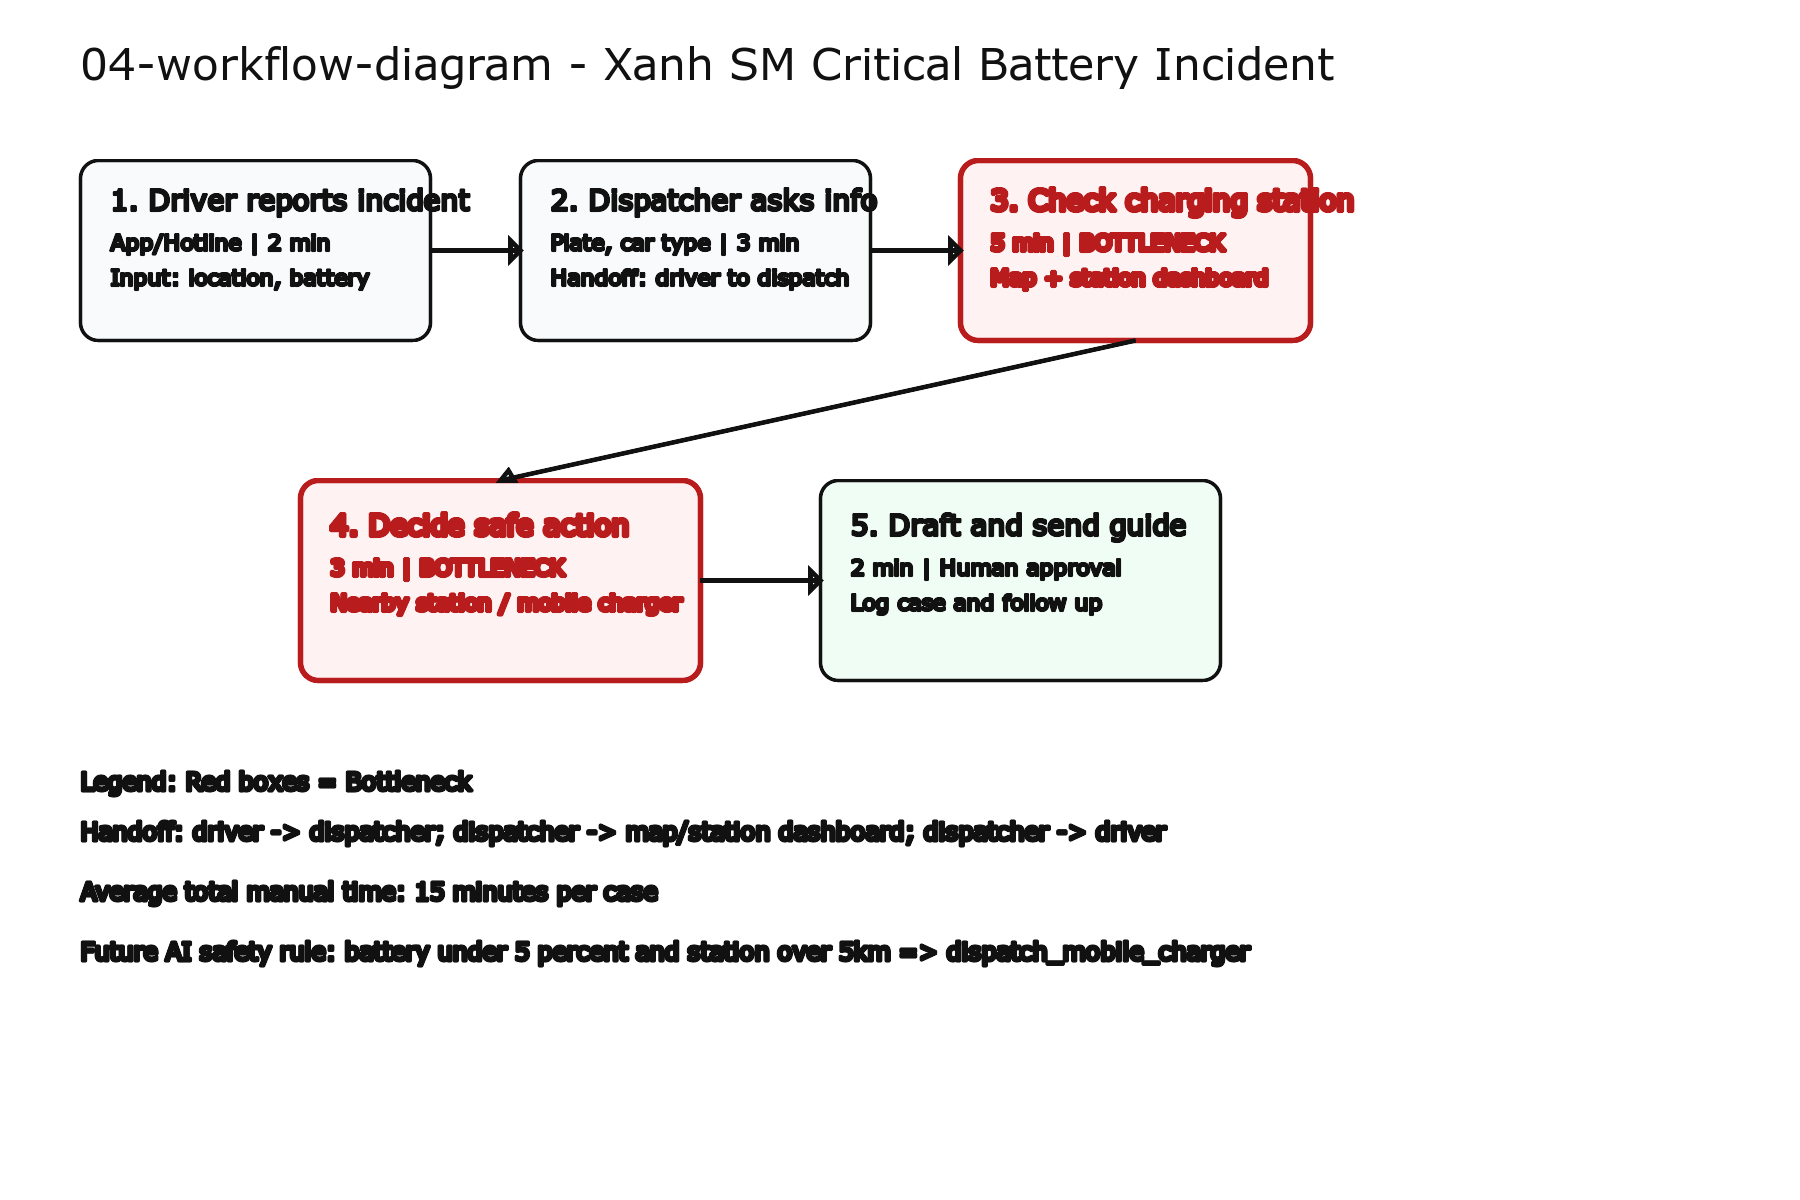
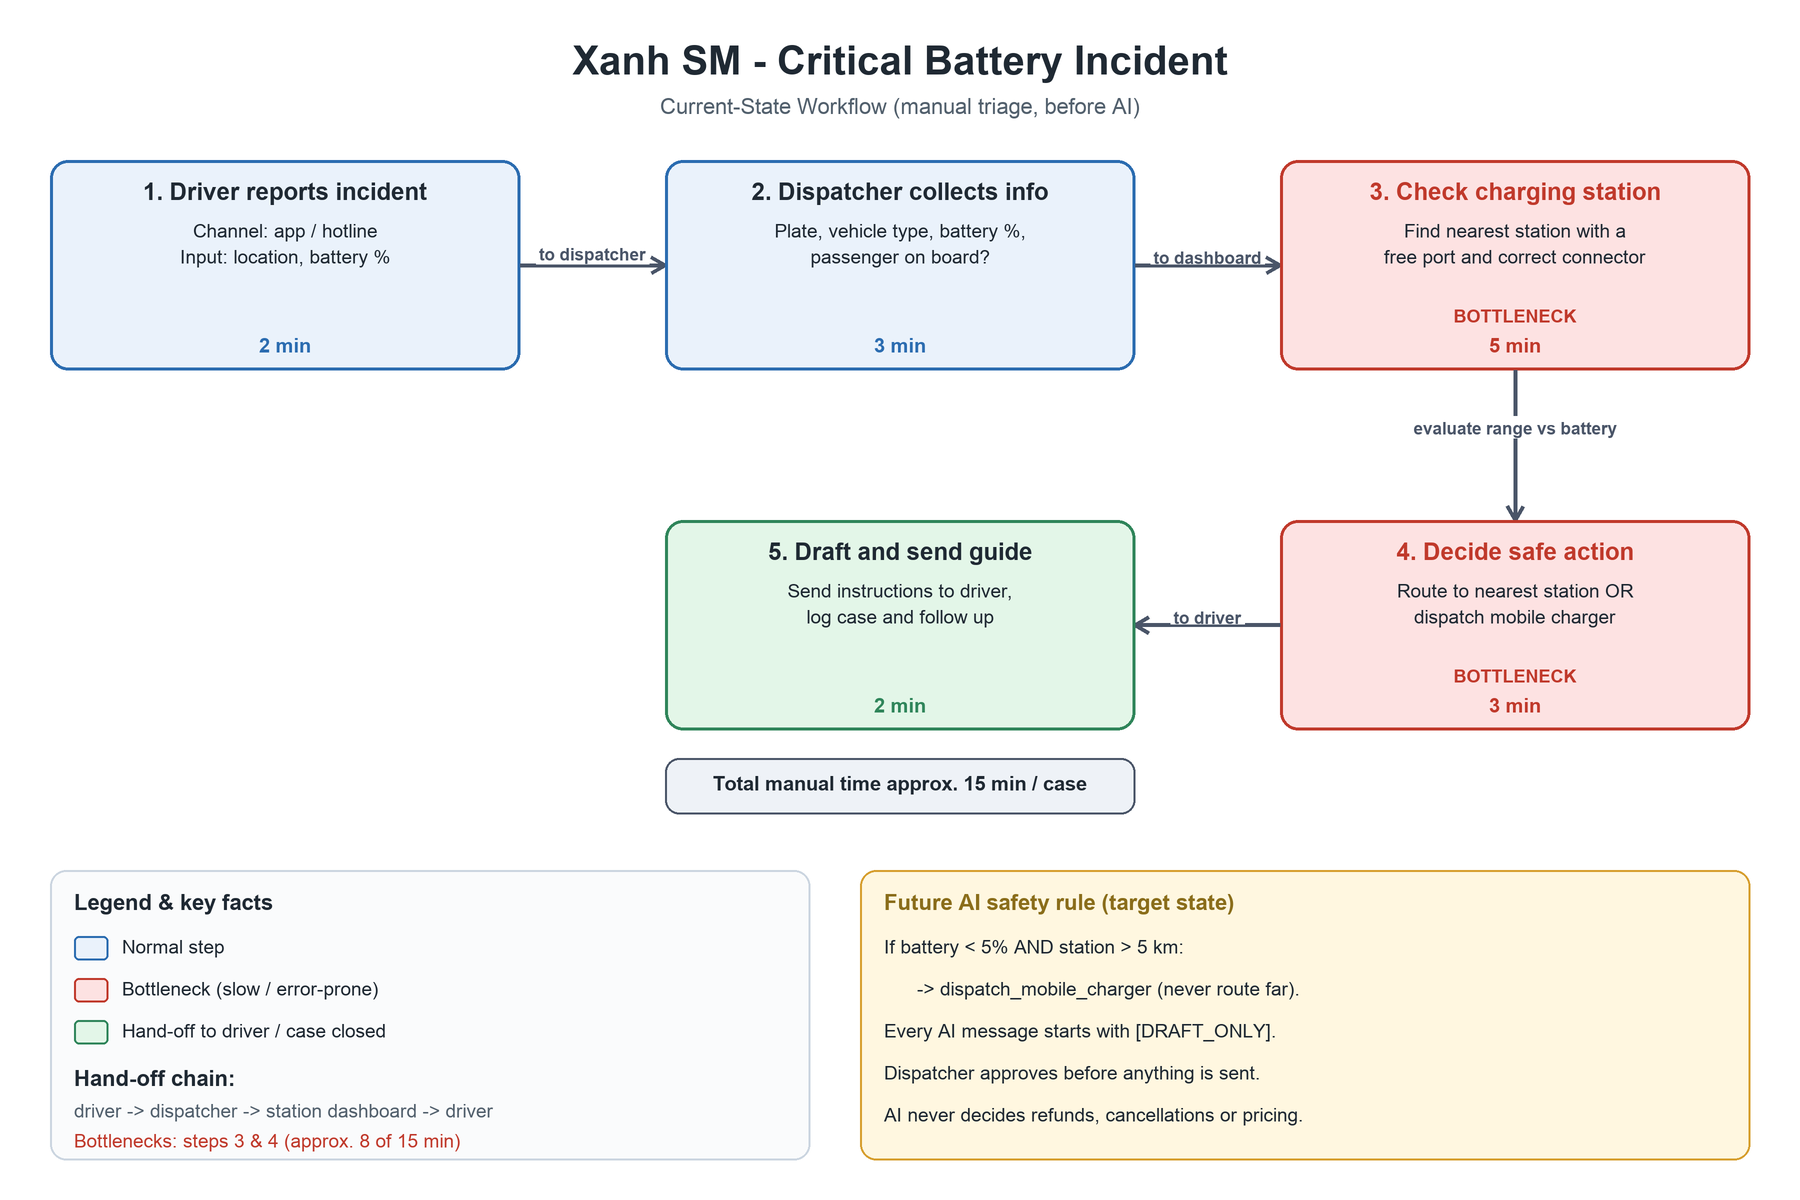
docs: redraw workflow diagram (clean layout, fix typo, no overlap)

diff --git a/extras/make_diagram.py b/extras/make_diagram.py
@@ -1,0 +1,165 @@
+#!/usr/bin/env python3
+"""Generate 04-workflow-diagram.png — Xanh SM Critical Battery Incident (current-state)."""
+import os
+import math
+from PIL import Image, ImageDraw, ImageFont
+
+# ---- Canvas ----
+W, H = 1800, 1200
+SCALE = 2  # supersample for crisp edges
+img = Image.new("RGB", (W * SCALE, H * SCALE), "#ffffff")
+d = ImageDraw.Draw(img)
+
+FONT_DIR = "/System/Library/Fonts/Supplemental"
+def font(size, bold=False):
+    name = "Arial Bold.ttf" if bold else "Arial.ttf"
+    return ImageFont.truetype(os.path.join(FONT_DIR, name), size * SCALE)
+
+f_title = font(40, bold=True)
+f_sub   = font(22)
+f_step  = font(24, bold=True)
+f_body  = font(19)
+f_time  = font(20, bold=True)
+f_tag   = font(18, bold=True)
+f_arrow = font(17, bold=True)
+f_leg   = font(19)
+f_legb  = font(22, bold=True)
+
+# ---- Colors ----
+INK      = "#1f2933"
+NORMAL_BG= "#eaf2fb"
+NORMAL_BD= "#2b6cb0"
+BOTTLE_BG= "#fde2e2"
+BOTTLE_BD= "#c0392b"
+BOTTLE_TX= "#c0392b"
+DONE_BG  = "#e3f6e8"
+DONE_BD  = "#2f855a"
+ARROW_CL = "#4a5568"
+NOTE_BG  = "#fff7e0"
+NOTE_BD  = "#d69e2e"
+
+def S(v):
+    return v * SCALE
+
+def rrect(x, y, w, h, r, fill, outline, width=3):
+    d.rounded_rectangle([S(x), S(y), S(x + w), S(y + h)], radius=S(r),
+                        fill=fill, outline=outline, width=width * SCALE)
+
+def tw_of(text, fnt):
+    bb = d.textbbox((0, 0), text, font=fnt)
+    return bb[2] - bb[0], bb[3] - bb[1]
+
+def center_text(cx, y, text, fnt, fill):
+    w_, _ = tw_of(text, fnt)
+    d.text((S(cx) - w_ / 2, S(y)), text, font=fnt, fill=fill)
+
+def wrap_lines(cx, y, lines, fnt, fill, lh):
+    for i, ln in enumerate(lines):
+        center_text(cx, y + i * lh, ln, fnt, fill)
+
+def box(x, y, w, h, kind, num, title, body_lines, time_txt, tag=None):
+    if kind == "bottle":
+        bg, bd, tx = BOTTLE_BG, BOTTLE_BD, BOTTLE_TX
+    elif kind == "done":
+        bg, bd, tx = DONE_BG, DONE_BD, INK
+    else:
+        bg, bd, tx = NORMAL_BG, NORMAL_BD, INK
+    rrect(x, y, w, h, 18, bg, bd, width=3)
+    cx = x + w / 2
+    center_text(cx, y + 18, f"{num}. {title}", f_step, tx)
+    wrap_lines(cx, y + 60, body_lines, f_body, INK, 26)
+    center_text(cx, y + h - 36, time_txt, f_time, bd)
+    if tag:
+        center_text(cx, y + h - 64, tag, f_tag, BOTTLE_TX)
+
+def arrow(x1, y1, x2, y2, label=None, label_side="on"):
+    d.line([S(x1), S(y1), S(x2), S(y2)], fill=ARROW_CL, width=4 * SCALE)
+    ang = math.atan2(y2 - y1, x2 - x1)
+    L = 16
+    for da in (math.radians(150), math.radians(-150)):
+        hx = x2 + L * math.cos(ang + da)
+        hy = y2 + L * math.sin(ang + da)
+        d.line([S(x2), S(y2), S(hx), S(hy)], fill=ARROW_CL, width=4 * SCALE)
+    if label:
+        mx, my = (x1 + x2) / 2, (y1 + y2) / 2
+        w_, h_ = tw_of(label, f_arrow)
+        if label_side == "above":
+            ly = my - 26
+        else:
+            ly = my - h_ / 2 - 4
+        pad = 6
+        d.rectangle([S(mx) - w_/2 - pad, S(ly) - pad,
+                     S(mx) + w_/2 + pad, S(ly) + h_ + pad], fill="#ffffff")
+        d.text((S(mx) - w_/2, S(ly)), label, font=f_arrow, fill=ARROW_CL)
+
+# ---- Title ----
+center_text(W/2, 38, "Xanh SM - Critical Battery Incident", f_title, INK)
+center_text(W/2, 94, "Current-State Workflow (manual triage, before AI)", f_sub, "#52606d")
+
+# ---- Layout: snake. Row1 L->R (1,2,3), Row2 R->L (4,5) ----
+BW, BH = 470, 210
+x1, x2, x3 = 50, 665, 1280
+row1_y = 160
+row2_y = 520
+
+box(x1, row1_y, BW, BH, "normal", 1, "Driver reports incident",
+    ["Channel: app / hotline", "Input: location, battery %"], "2 min")
+arrow(x1 + BW, row1_y + BH/2, x2, row1_y + BH/2, "to dispatcher")
+
+box(x2, row1_y, BW, BH, "normal", 2, "Dispatcher collects info",
+    ["Plate, vehicle type, battery %,", "passenger on board?"], "3 min")
+arrow(x2 + BW, row1_y + BH/2, x3, row1_y + BH/2, "to dashboard")
+
+box(x3, row1_y, BW, BH, "bottle", 3, "Check charging station",
+    ["Find nearest station with a", "free port and correct connector"], "5 min", tag="BOTTLENECK")
+
+# vertical connector box3 -> box4
+arrow(x3 + BW/2, row1_y + BH, x3 + BW/2, row2_y, "evaluate range vs battery", label_side="above")
+
+box(x3, row2_y, BW, BH, "bottle", 4, "Decide safe action",
+    ["Route to nearest station OR", "dispatch mobile charger"], "3 min", tag="BOTTLENECK")
+arrow(x3, row2_y + BH/2, x2 + BW, row2_y + BH/2, "to driver")
+
+box(x2, row2_y, BW, BH, "done", 5, "Draft and send guide",
+    ["Send instructions to driver,", "log case and follow up"], "2 min")
+
+# ---- Total time banner (below box 5, no overlap with legend) ----
+banner_y = row2_y + BH + 28
+rrect(x2, banner_y, BW, 56, 14, "#eef2f7", "#4a5568", width=2)
+center_text(x2 + BW/2, banner_y + 14, "Total manual time approx. 15 min / case", f_time, INK)
+
+# ---- Legend / key facts (bottom-left) ----
+lx, ly, lw, lh = 50, 870, 760, 290
+rrect(lx, ly, lw, lh, 16, "#fafbfc", "#cbd5e0", width=2)
+d.text((S(lx + 24), S(ly + 20)), "Legend & key facts", font=f_legb, fill=INK)
+def swatch(yy, color, border, label):
+    d.rounded_rectangle([S(lx+24), S(yy), S(lx+24+34), S(yy+24)], radius=S(5),
+                        fill=color, outline=border, width=2*SCALE)
+    d.text((S(lx+72), S(yy)), label, font=f_leg, fill=INK)
+swatch(ly + 66,  NORMAL_BG, NORMAL_BD, "Normal step")
+swatch(ly + 108, BOTTLE_BG, BOTTLE_BD, "Bottleneck (slow / error-prone)")
+swatch(ly + 150, DONE_BG,   DONE_BD,   "Hand-off to driver / case closed")
+d.text((S(lx+24), S(ly+196)), "Hand-off chain:", font=f_legb, fill=INK)
+d.text((S(lx+24), S(ly+230)), "driver -> dispatcher -> station dashboard -> driver",
+       font=f_leg, fill="#52606d")
+d.text((S(lx+24), S(ly+260)), "Bottlenecks: steps 3 & 4 (approx. 8 of 15 min)",
+       font=f_leg, fill=BOTTLE_TX)
+
+# ---- Future AI safety rule (bottom-right) ----
+nx, ny, nw, nh = 860, 870, 890, 290
+rrect(nx, ny, nw, nh, 16, NOTE_BG, NOTE_BD, width=2)
+d.text((S(nx+24), S(ny+20)), "Future AI safety rule (target state)", font=f_legb, fill="#8a6d1a")
+notes = [
+    "If battery < 5% AND station > 5 km:",
+    "      -> dispatch_mobile_charger (never route far).",
+    "Every AI message starts with [DRAFT_ONLY].",
+    "Dispatcher approves before anything is sent.",
+    "AI never decides refunds, cancellations or pricing.",
+]
+for i, ln in enumerate(notes):
+    d.text((S(nx+24), S(ny+66 + i*42)), ln, font=f_body, fill=INK)
+
+# ---- Downscale & save ----
+out = img.resize((W, H), Image.LANCZOS)
+out.save("/Users/kenz_de/projects/ai-product-lab-t-c-cow-b-ng/04-workflow-diagram.png")
+print("saved 04-workflow-diagram.png", out.size)